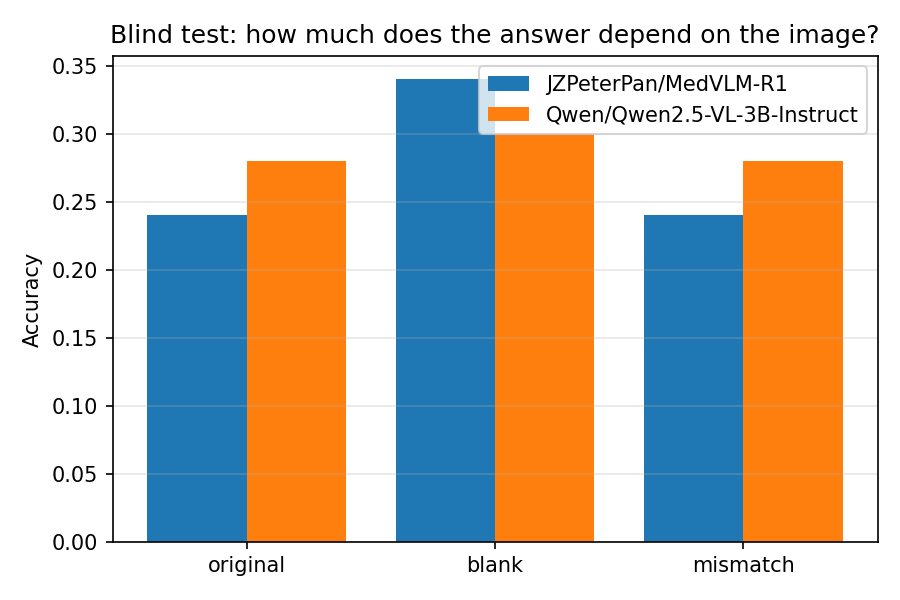
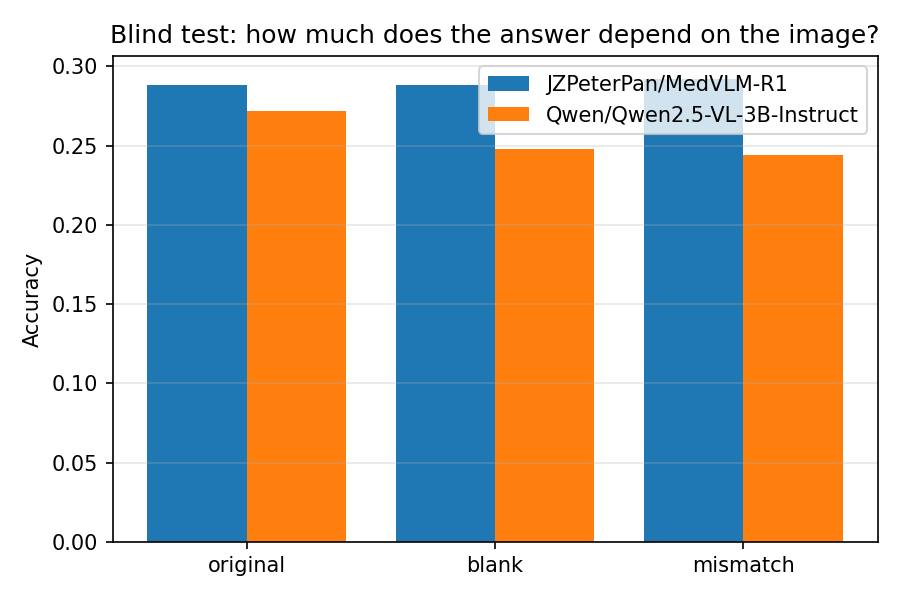
[A] real results (blind_test): pathvqa (medvlm_r1 vs qwen25_vl_3b)

diff --git a/fmr/dashboard/data.js b/fmr/dashboard/data.js
@@ -1,6 +1,6 @@
 // Auto-generated by scripts/make_dashboard.py — do not edit by hand.
 window.FMR_DATA = {
- "generated_at": "2026-08-24T13:01:40",
+ "generated_at": "2026-08-24T15:41:14",
  "has_real": true,
  "default_source": "real:pathvqa",
  "sources": {
@@ -19010,21 +19010,21 @@ window.FMR_DATA = {
    "blind_test": {
     "dataset": "pathvqa",
     "split": "test",
-    "n": 50,
+    "n": 250,
     "models": {
      "medvlm_r1": {
       "name": "JZPeterPan/MedVLM-R1",
       "is_reasoning": true,
       "accuracy": {
-       "original": 0.24,
-       "blank": 0.34,
-       "mismatch": 0.24
+       "original": 0.288,
+       "blank": 0.288,
+       "mismatch": 0.292
       },
-      "blind_gap": -0.10000000000000003,
-      "mismatch_gap": 0.0,
+      "blind_gap": 0.0,
+      "mismatch_gap": -0.0040000000000000036,
       "flip_rate": {
-       "blank": 0.5,
-       "mismatch": 0.54
+       "blank": 0.712,
+       "mismatch": 0.708
       },
       "iou_vs_step_index": {},
       "signal_b_vs_step_index": {
@@ -19065,7 +19065,14 @@ window.FMR_DATA = {
        "34": 0.5,
        "35": 0.5,
        "36": 0.5,
-       "37": 0.5
+       "37": 0.5,
+       "38": 0.5,
+       "39": 0.5,
+       "40": 0.5,
+       "41": 0.5,
+       "42": 0.5,
+       "43": 0.5,
+       "44": 0.5
       },
       "grounding_drift_slope": 0.0
      },
@@ -19073,15 +19080,15 @@ window.FMR_DATA = {
       "name": "Qwen/Qwen2.5-VL-3B-Instruct",
       "is_reasoning": false,
       "accuracy": {
-       "original": 0.28,
-       "blank": 0.3,
-       "mismatch": 0.28
+       "original": 0.272,
+       "blank": 0.248,
+       "mismatch": 0.244
       },
-      "blind_gap": -0.019999999999999962,
-      "mismatch_gap": 0.0,
+      "blind_gap": 0.02400000000000002,
+      "mismatch_gap": 0.028000000000000025,
       "flip_rate": {
-       "blank": 0.74,
-       "mismatch": 0.6
+       "blank": 0.66,
+       "mismatch": 0.632
       },
       "iou_vs_step_index": {},
       "signal_b_vs_step_index": {
@@ -19093,20 +19100,20 @@ window.FMR_DATA = {
     "replication": {
      "tested": true,
      "reasoning_model": "JZPeterPan/MedVLM-R1",
-     "blind_gap_reasoning": -0.10000000000000003,
-     "blind_gap_nonreasoning": -0.019999999999999962,
-     "blind_gap_delta": -0.08000000000000007,
+     "blind_gap_reasoning": 0.0,
+     "blind_gap_nonreasoning": 0.02400000000000002,
+     "blind_gap_delta": -0.02400000000000002,
      "both_image_independent": true,
      "blind_gap_supports": false,
-     "accuracy_reasoning": 0.24,
-     "accuracy_nonreasoning": 0.28,
+     "accuracy_reasoning": 0.288,
+     "accuracy_nonreasoning": 0.272,
      "accuracy_confound": false,
      "drift_slope": 0.0,
      "drift_available": false,
      "within_model_decay": false,
      "replicated": false,
      "primary_evidence": "blind_gap",
-     "note": "NOT a grounding effect: BOTH models are image-independent on this dataset (blind_gap reasoning -0.100, non-reasoning -0.020 \u2014 both \u2264 0.03). The dataset is answerable from language priors; the smaller reasoning gap is noise, not evidence."
+     "note": "NOT a grounding effect: BOTH models are image-independent on this dataset (blind_gap reasoning 0.000, non-reasoning 0.024 \u2014 both \u2264 0.03). The dataset is answerable from language priors; the smaller reasoning gap is noise, not evidence."
     }
    },
    "fmr_results": {
